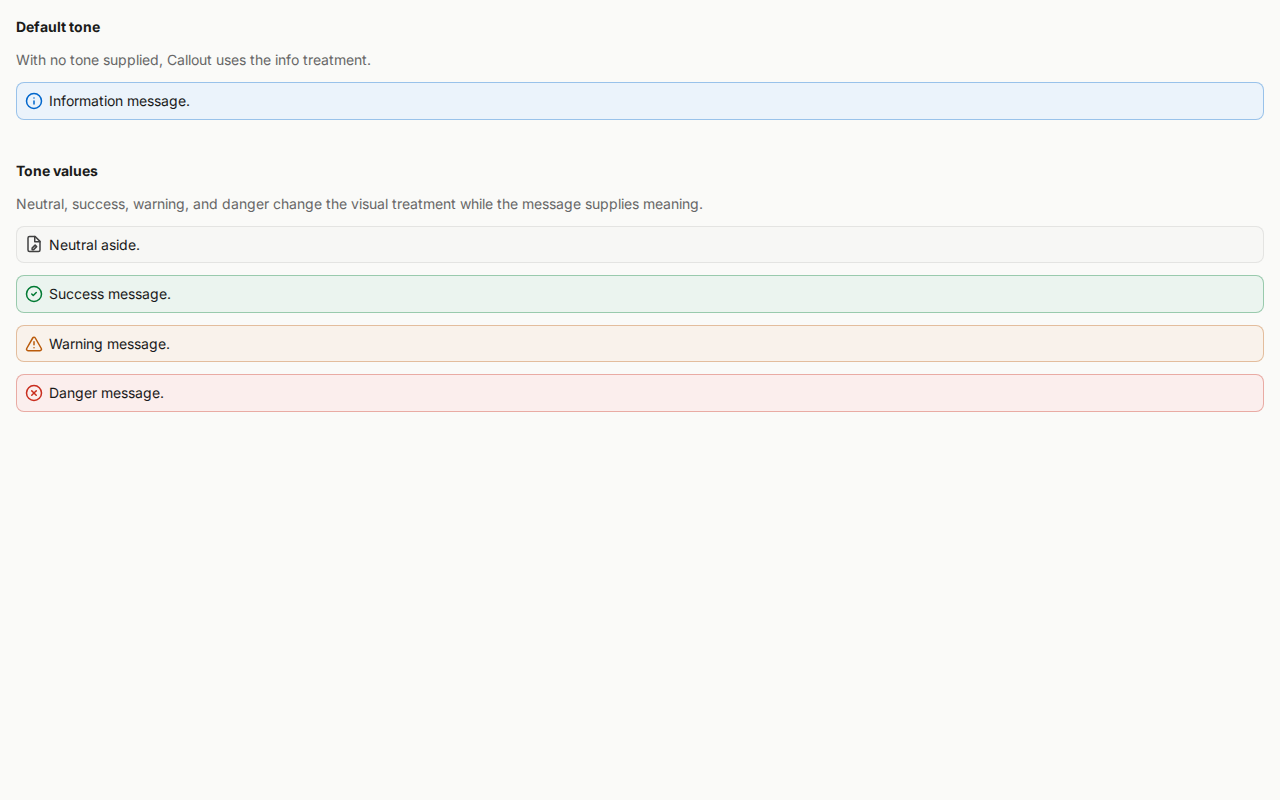
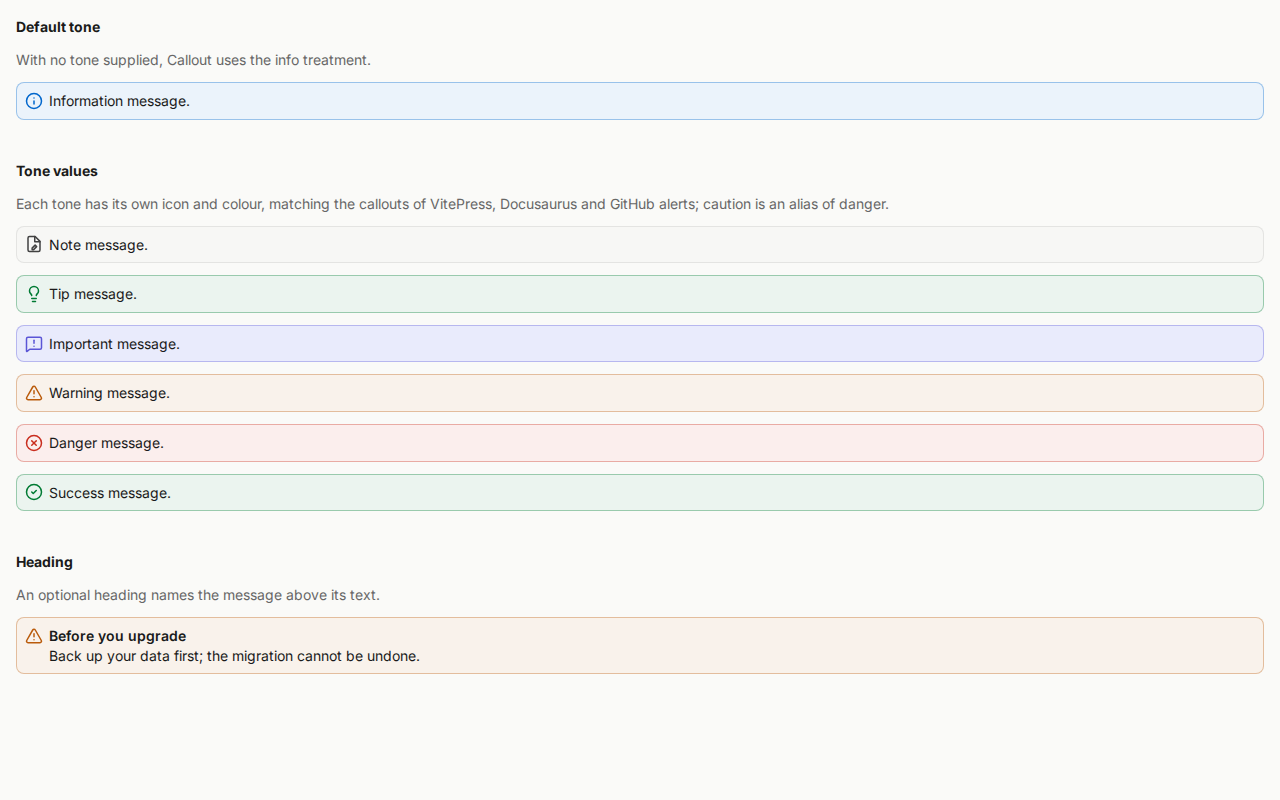
feat(callout,tabs): shared block tones, callout heading and synced tab groups (#358)
* feat(callout,tabs): shared block tones, callout heading and synced tab groups

* chore: ignore test screenshots in .context

diff --git a/packages/looma/tests/browser.test.ts b/packages/looma/tests/browser.test.ts
@@ -1150,6 +1150,69 @@ describe("Intrinsic layout limits", () => {
   });
 });
 
+describe("Shared block vocabulary", () => {
+  it("draws every callout tone with its own icon and an optional heading in HTML and Vue", async () => {
+    const tones = ["note", "tip", "info", "important", "warning", "danger", "caution"];
+    for (const adapter of ["html", "vue"]) {
+      const path = await bundle(`${adapter}-callout-vocabulary`, adapter === "html" ? `import "@threadlabs/looma";` : `
+        import { createApp, h } from "vue";
+        import { Callout } from "@threadlabs/looma/vue";
+        createApp({ render: () => h("div", {}, [
+          ...${JSON.stringify(tones)}.map(tone => h(Callout, { id: tone, tone }, () => tone + " message")),
+          h(Callout, { id: "titled", tone: "tip", heading: "Before you start" }, () => "Body"),
+        ]) }).mount("#app");
+      `);
+      const body = adapter === "html" ? tones.map(tone => `<ui-callout id="${tone}" tone="${tone}">${tone} message</ui-callout>`).join("")
+        + `<ui-callout id="titled" tone="tip" heading="Before you start">Body</ui-callout>` : "";
+      const page = await open(path, `<div id="app">${body}</div>`, [join(root, "tokens.css"), ...(adapter === "vue" ? [join(root, "vue/components.css")] : [])]);
+      const look = (id: string) => page.locator(`#${id}`).evaluate(element => ({
+        icon: element.querySelector(".icon svg")?.innerHTML ?? "",
+        surface: getComputedStyle(element).backgroundColor,
+      }));
+      const looks = Object.fromEntries(await Promise.all(tones.map(async tone => [tone, await look(tone)])));
+      for (const tone of tones) assert.ok(looks[tone].icon, `${adapter}/${tone}: draws an icon`);
+      assert.deepEqual(looks.caution, looks.danger, `${adapter}: caution is an alias of danger`);
+      const distinct = ["note", "tip", "info", "important", "warning", "danger"];
+      assert.equal(new Set(distinct.map(tone => looks[tone].icon)).size, distinct.length, `${adapter}: each tone has its own icon`);
+      assert.equal(new Set(distinct.map(tone => looks[tone].surface)).size, distinct.length, `${adapter}: each tone has its own surface`);
+      assert.equal(await page.locator("#titled .heading").textContent(), "Before you start");
+      assert.equal(await page.locator("#info .heading").count(), 0, "no heading element without a heading");
+      await page.close();
+    }
+  });
+
+  it("syncs grouped tabs by label across the page and remembers the choice", async () => {
+    const path = await bundle("html-tabs-group", `
+      import "@threadlabs/looma";
+      window.selections = [];
+      document.addEventListener("select", (event) => window.selections.push([event.target.id, event.detail.value, event.detail.trigger]));
+    `);
+    const markup = (id: string, group: string) => `
+      <ui-tabs id="${id}" label="${id}" group="${group}">
+        <section id="${id}-pnpm" aria-label="pnpm">pnpm</section>
+        <section id="${id}-npm" aria-label="npm">npm</section>
+      </ui-tabs>`;
+    const html = `<!doctype html><html><body>${markup("install", "pm")}${markup("run", "pm")}${markup("other", "")}<script src="/bundle.js"></script></body></html>`;
+    const context = await browser.newContext();
+    await context.route("http://looma.test/**", route => route.request().url().endsWith("/bundle.js")
+      ? route.fulfill({ path, contentType: "text/javascript" })
+      : route.fulfill({ body: html, contentType: "text/html" }));
+    const page = await context.newPage();
+    await page.goto("http://looma.test/");
+    await page.waitForTimeout(50);
+    await page.locator("#install").getByRole("tab", { name: "npm", exact: true }).click();
+    assert.equal(await page.locator("#run").getByRole("tab", { name: "npm", exact: true }).getAttribute("aria-selected"), "true", "a grouped peer selects the same label");
+    assert.equal(await page.locator("#run-npm").isVisible(), true);
+    assert.equal(await page.locator("#other").getByRole("tab", { name: "pnpm", exact: true }).getAttribute("aria-selected"), "true", "ungrouped tabs keep their own selection");
+    assert.deepEqual(await page.evaluate(() => (window as any).selections), [["install", "install-npm", "pointer"], ["run", "run-npm", "programmatic"]]);
+    await page.reload();
+    await page.waitForTimeout(50);
+    for (const id of ["install", "run"]) assert.equal(await page.locator(`#${id}-npm`).isVisible(), true, `${id} restores the remembered choice`);
+    assert.equal(await page.locator("#other-pnpm").isVisible(), true);
+    await context.close();
+  });
+});
+
 describe("Tabs activation", () => {
   it("moves focus without selecting in manual mode and selects on Enter or Space", async () => {
     const path = await bundle("html-manual-tabs", `

diff --git a/packages/looma/src/components/ui-callout/ui-callout.html b/packages/looma/src/components/ui-callout/ui-callout.html
@@ -1,8 +1,11 @@
 <template component="ui-callout">
   <defs>
-    <prop name="tone" type="keyword" values="info, neutral, note, warning, success, danger" default="info"
-    >Which kind of message the callout carries, shown by its icon and colour: info (the default) for information, neutral for a muted aside, warning for a
-      caution, success for a confirmation, and danger for a harmful consequence. note remains as an alias for neutral.</prop>
+    <prop name="tone" type="keyword" values="info, neutral, note, tip, important, warning, caution, success, danger" default="info"
+    >Which kind of message the callout carries, shown by its icon and colour: info (the default) for information, note or neutral for a muted aside, tip for
+      advice, important for something the reader must not miss, warning for a caution, danger (or its alias caution) for a harmful consequence, and success for
+      a confirmation. These are the tones of VitePress, Docusaurus and GitHub alerts.</prop>
+    <prop name="heading" type="string" default=""
+    >A short heading above the message, such as "Before you upgrade". Optional; without it the message stands alone.</prop>
   </defs>
   <div role="note">
     <span class="icon" aria-hidden="true">
@@ -24,6 +27,16 @@
         <path d="M13 2v7h7"></path>
         <path d="m9.5 17.5 4-4 2 2-4 4H9.5v-2Z"></path>
       </svg>
+      <svg $if="$tone = 'tip'" viewBox="0 0 24 24" fill="none" stroke="currentColor" stroke-width="2" stroke-linecap="round" stroke-linejoin="round">
+        <path d="M15 14c.2-1 .7-1.7 1.5-2.5 1-.9 1.5-2.2 1.5-3.5A6 6 0 0 0 6 8c0 1 .2 2.2 1.5 3.5.7.7 1.3 1.5 1.5 2.5"></path>
+        <path d="M9 18h6"></path>
+        <path d="M10 22h4"></path>
+      </svg>
+      <svg $if="$tone = 'important'" viewBox="0 0 24 24" fill="none" stroke="currentColor" stroke-width="2" stroke-linecap="round" stroke-linejoin="round">
+        <path d="M22 17a2 2 0 0 1-2 2H6.828a2 2 0 0 0-1.414.586l-2.202 2.202A.71.71 0 0 1 2 21.286V5a2 2 0 0 1 2-2h16a2 2 0 0 1 2 2z"></path>
+        <path d="M12 15h.01"></path>
+        <path d="M12 7v4"></path>
+      </svg>
       <svg $if="$tone = 'warning'" viewBox="0 0 24 24" fill="none" stroke="currentColor" stroke-width="2" stroke-linecap="round" stroke-linejoin="round">
         <path d="m21.73 18-8-14a2 2 0 0 0-3.46 0l-8 14A2 2 0 0 0 4 21h16a2 2 0 0 0 1.73-3Z"></path>
         <path d="M12 9v4"></path>
@@ -33,13 +46,24 @@
         <circle cx="12" cy="12" r="10"></circle>
         <path d="m9 12 2 2 4-4"></path>
       </svg>
-      <svg $if="$tone = 'danger'" viewBox="0 0 24 24" fill="none" stroke="currentColor" stroke-width="2" stroke-linecap="round" stroke-linejoin="round">
+      <svg
+        $if="$tone = 'danger' or $tone = 'caution'"
+        viewBox="0 0 24 24"
+        fill="none"
+        stroke="currentColor"
+        stroke-width="2"
+        stroke-linecap="round"
+        stroke-linejoin="round"
+      >
         <circle cx="12" cy="12" r="10"></circle>
         <path d="m15 9-6 6"></path>
         <path d="m9 9 6 6"></path>
       </svg>
     </span>
-    <div class="content"><slot></slot></div>
+    <div class="content">
+      <strong class="heading" $if="$heading">{$heading}</strong>
+      <slot></slot>
+    </div>
   </div>
   <style>
     /* This component's hooks style the element they are set on, and never a nested one. */
@@ -147,6 +171,11 @@
       min-inline-size: 0;
     }
 
+    .heading {
+      display: block;
+      font-weight: var(--ui-font-semibold);
+    }
+
     :host([tone="neutral"]), :host([tone="note"]) {
       --_ui-selection-context-surface: initial;
       --_ui-selection-context-border: initial;
@@ -154,6 +183,18 @@
       --_callout-surface: var(--ui-surface-muted);
       --_callout-border: var(--ui-border-strong);
       --_callout-icon: var(--ui-text-secondary);
+    }
+
+    :host([tone="tip"]) {
+      --_callout-surface: var(--ui-success-soft);
+      --_callout-border: var(--ui-success-solid);
+      --_callout-icon: var(--ui-success-solid);
+    }
+
+    :host([tone="important"]) {
+      --_callout-surface: var(--ui-accent-soft);
+      --_callout-border: var(--ui-accent-solid);
+      --_callout-icon: var(--ui-accent-solid);
     }
 
     :host([tone="warning"]) {
@@ -168,7 +209,7 @@
       --_callout-icon: var(--ui-success-solid);
     }
 
-    :host([tone="danger"]) {
+    :host([tone="danger"]), :host([tone="caution"]) {
       --_callout-surface: var(--ui-danger-soft);
       --_callout-border: var(--ui-danger-solid);
       --_callout-icon: var(--ui-danger-solid);

diff --git a/packages/looma/src/components/ui-tabs/ui-tabs.js b/packages/looma/src/components/ui-tabs/ui-tabs.js
@@ -1,6 +1,16 @@
 import { trackTrigger } from "../shared/trigger.js";
 
 let panelIds = 0;
+const GROUP_EVENT = "looma-tabs-group";
+const storageKey = (group) => `looma-tabs:${group}`;
+
+// Storage can be missing or throw (private windows, blocked site data); the selection still syncs in the page.
+function readStored(group) {
+  try { return globalThis.localStorage?.getItem(storageKey(group)) ?? null; } catch { return null; }
+}
+function writeStored(group, label) {
+  try { globalThis.localStorage?.setItem(storageKey(group), label); } catch { /* not remembered */ }
+}
 
 /** Lists the authored panels (each labelled by its aria-label) as tabs and shows the selected one. */
 function connect(host) {
@@ -56,10 +66,30 @@ function connect(host) {
     syncButtons();
   });
 
+  const group = () => String(host.props.group.value || "");
+  const document = host.element.ownerDocument;
+  // A group shares a selection by tab label, since panel ids are unique in a document.
+  const selectLabel = (label) => {
+    const tab = host.state.tabs.find((candidate) => candidate.label === label);
+    if (!tab || tab.id === host.state.internalValue) return false;
+    host.state.internalValue = tab.id;
+    return true;
+  };
   const select = (button, how) => {
     const previousValue = host.state.internalValue || undefined;
     host.state.internalValue = button.value;
     host.dispatch("select", { value: button.value, previousValue, trigger: how });
+    const name = group();
+    const label = host.state.tabs.find((tab) => tab.id === button.value)?.label;
+    if (!name || label === undefined) return;
+    writeStored(name, label);
+    document.dispatchEvent(new CustomEvent(GROUP_EVENT, { detail: { group: name, label, source: host.element } }));
+  };
+  const onGroupSelect = (event) => {
+    const { group: name, label, source } = event.detail;
+    if (source === host.element || name !== group()) return;
+    const previousValue = host.state.internalValue || undefined;
+    if (selectLabel(label)) host.dispatch("select", { value: host.state.internalValue, previousValue, trigger: "programmatic" });
   };
   const onClick = (event) => {
     const button = event.target.closest?.('[role="tab"]');
@@ -104,7 +134,14 @@ function connect(host) {
   const tabObserver = new MutationObserver(syncButtons);
   tabObserver.observe(list, { childList: true });
   readPanels();
+  document.addEventListener(GROUP_EVENT, onGroupSelect);
+  // A remembered choice applies when the page does not choose a panel itself.
+  if (group() && !external) {
+    const stored = readStored(group());
+    if (stored !== null) selectLabel(stored);
+  }
   return () => {
+    document.removeEventListener(GROUP_EVENT, onGroupSelect);
     stop();
     stopTracking();
     observer.disconnect();

diff --git a/packages/looma/src/components/ui-tabs/ui-tabs.html b/packages/looma/src/components/ui-tabs/ui-tabs.html
@@ -14,6 +14,9 @@
     >In auto mode, arrow keys move focus and select the next panel. In manual mode, arrows move focus while Enter or Space selects a panel. Use manual when
       displaying a panel takes time.</prop>
     <prop name="stretch" type="boolean" default="false">Share the full width of the tab list equally between tabs instead of sizing each to its label.</prop>
+    <prop name="group" type="string" default=""
+    >Tabs with the same nonempty group share one selection: choosing a tab selects the tab with the same label in every other Tabs of that group in the
+      document, and the choice is remembered for the next visit. Use it for alternatives a reader picks once, such as a package manager or language.</prop>
     <state type="string" name="internalValue" value=""></state>
     <state name="tabs" type="list(object({ id: string, label: string }))" value="[]"></state>
     <event name="select" type="object">

diff --git a/packages/looma/src/components/ui-callout/examples/02-tone-values.html b/packages/looma/src/components/ui-callout/examples/02-tone-values.html
@@ -1,10 +1,12 @@
 <!--
 title: Tone values
-description: Neutral, success, warning, and danger change the visual treatment while the message supplies meaning.
+description: Each tone has its own icon and colour, matching the callouts of VitePress, Docusaurus and GitHub alerts; caution is an alias of danger.
 -->
 <ui-stack gap="s">
-  <ui-callout tone="neutral">Neutral aside.</ui-callout>
-  <ui-callout tone="success">Success message.</ui-callout>
+  <ui-callout tone="note">Note message.</ui-callout>
+  <ui-callout tone="tip">Tip message.</ui-callout>
+  <ui-callout tone="important">Important message.</ui-callout>
   <ui-callout tone="warning">Warning message.</ui-callout>
   <ui-callout tone="danger">Danger message.</ui-callout>
+  <ui-callout tone="success">Success message.</ui-callout>
 </ui-stack>

diff --git a/packages/looma/src/components/ui-tabs/examples/07-synced-group.html b/packages/looma/src/components/ui-tabs/examples/07-synced-group.html
@@ -1,0 +1,14 @@
+<!--
+title: Synced group
+description: Tabs in the same group select the same label together, and remember the choice for the next visit.
+-->
+<ui-stack gap="s">
+  <ui-tabs label="Install" group="package-manager">
+    <section id="install-pnpm" aria-label="pnpm"><code>pnpm add @threadlabs/looma</code></section>
+    <section id="install-npm" aria-label="npm"><code>npm install @threadlabs/looma</code></section>
+  </ui-tabs>
+  <ui-tabs label="Run" group="package-manager">
+    <section id="run-pnpm" aria-label="pnpm"><code>pnpm dev</code></section>
+    <section id="run-npm" aria-label="npm"><code>npm run dev</code></section>
+  </ui-tabs>
+</ui-stack>

diff --git a/packages/looma/src/components/ui-callout/examples/03-heading.html b/packages/looma/src/components/ui-callout/examples/03-heading.html
@@ -1,0 +1,5 @@
+<!--
+title: Heading
+description: An optional heading names the message above its text.
+-->
+<ui-callout tone="warning" heading="Before you upgrade">Back up your data first; the migration cannot be undone.</ui-callout>

diff --git a/CHANGELOG.md b/CHANGELOG.md
@@ -1,5 +1,10 @@
 # Changelog
 
+## v0.27.5
+
+- Callout adds the tones `tip` and `important`, and `caution` as an alias of `danger`, so its tones match VitePress, Docusaurus and GitHub alerts: note, tip, info, important, warning and danger. Each new tone has its own Lucide icon and colour. A `heading` option adds a short heading above the message. Existing tones keep their look; `note` remains the muted `neutral` aside.
+- Tabs adds `group`: Tabs with the same group select the tab with the same label together across the page, and remember the choice in the browser for the next visit. A `value` the page sets wins over the remembered choice. Tabs without a group are unchanged.
+
 ## v0.27.3
 
 - Selects share text inputs' subtle field outline with a slightly raised resting shadow; text inputs and searchable fields retain their inset shadow. Matching single-line sizes now have the same height, including touch combobox affordances. These corrected defaults apply to existing fields without configuration; they keep selected values, events and keyboard behavior unchanged.
